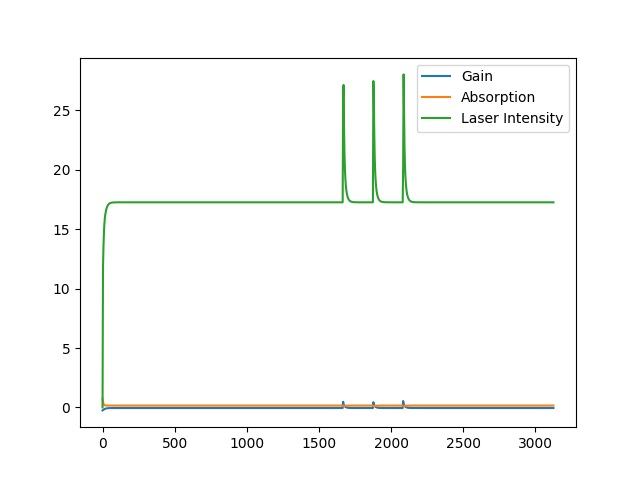
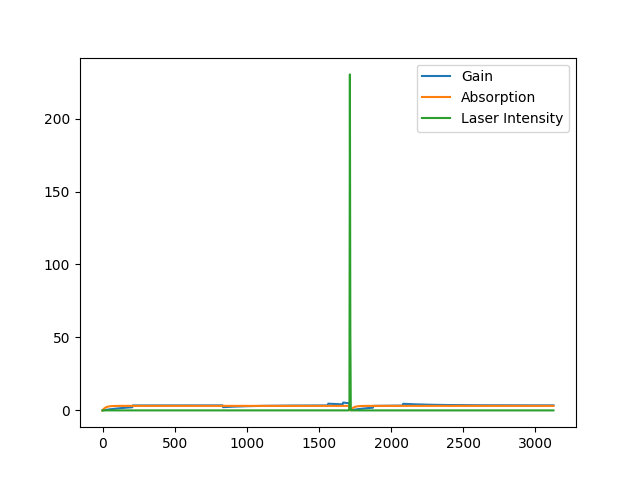
first valid spiking

diff --git a/laser/vcsel_rate.py b/laser/vcsel_rate.py
@@ -28,8 +28,8 @@ def default_vcsel_parameters():
         10e-16, # Bimolecular recombination term [m^3 s^-1]
         1e-4, # spontaneous emission coupling factor
         0.4, # output power coupling coefficient
-        2e-3, # gain biasing current [A]
-        0, # absorber biasing current [A]
+        2e-3, # A gain biasing current [A]
+        0, # S absorber biasing current [A]
         )
 class VCSEL(Yamada):
     """
@@ -47,8 +47,8 @@ class VCSEL(Yamada):
         gamma_s = vcsel_parameters[4]
         g_a = vcsel_parameters[8]
         g_s = vcsel_parameters[9]
-        I_a = vcsel_parameters[-1]
-        I_s = vcsel_parameters[-2]
+        I_a = vcsel_parameters[-2]
+        I_s = vcsel_parameters[-1]
         Va = vcsel_parameters[1]
         Vs = vcsel_parameters[2]
         n_oa = vcsel_parameters[10]
@@ -75,8 +75,8 @@ class VCSEL(Yamada):
         gamma_s = vcsel_parameters[4]
         g_a = vcsel_parameters[8]
         g_s = vcsel_parameters[9]
-        I_a = vcsel_parameters[-1]
-        I_s = vcsel_parameters[-2]
+        I_a = vcsel_parameters[-2]
+        I_s = vcsel_parameters[-1]
         Va = vcsel_parameters[1]
         Vs = vcsel_parameters[2]
         n_oa = vcsel_parameters[10]
@@ -91,18 +91,20 @@ class VCSEL(Yamada):
         y_Q = tau_ph/tau_S
         y_I = 1
         # epsilon_F approximated to most significant value
-        epsilon_F = g_a*beta*Br/(tau_ph*tau_A*g_a)
+        epsilon_F = 8.35e-35
         # spikes (ASSUME PROCESSED)
         return A, B, a, y_G, y_Q, y_I, epsilon_F, spikes
+    
+    # NOTE CONVERT BACK FROM G Q I to physical constants before plotting
 if __name__ == "__main__":
     # TODO scaling
-    A = 1e-15 # really small
-    # spikes = ((A, 208), (-A, 833), (A, 1562.5), (A, 1666), (A, 1875), (A, 2083))
-    spikes = ((A, 1666), (A, 1875), (A, 2083))
+    A = 2e-15 # really small
+    spikes = ((A, 208), (-A, 833), (A, 1562.5), (A, 1666), (A, 1875), (A, 2083))
+    # spikes = ((0, 0),)
     output_spikes = VCSEL.inputs(default_vcsel_parameters(), spikes)
-    print(output_spikes)
+    # print(output_spikes)
     yamada_parameters = VCSEL.get_yamada(default_vcsel_parameters(), spikes=output_spikes)
-    print(yamada_parameters)
-    laser = VCSEL(params=yamada_parameters, initial_state=(-0.25, 0.75, 0.))
+    # print(yamada_parameters)
+    laser = VCSEL(params=yamada_parameters, initial_state=(0, 0, 0.))
     laser.sim(0, 3125, .1)
     laser.plot()

diff --git a/laser/yamada.py b/laser/yamada.py
@@ -32,7 +32,7 @@ class Yamada():
             A, B, a, y_G, y_Q, y_I, eps, _ = args
             d_G = y_G * (A - G - G * I) + force(t, args)
             d_Q = y_Q * (B - Q - a * Q * I)
-            d_I = y_I * (G - Q - 1) * I + eps
+            d_I = y_I * (G - Q - 1) * I + eps*G*G
             d_y = d_G, d_Q, d_I
             return d_y
         return f
